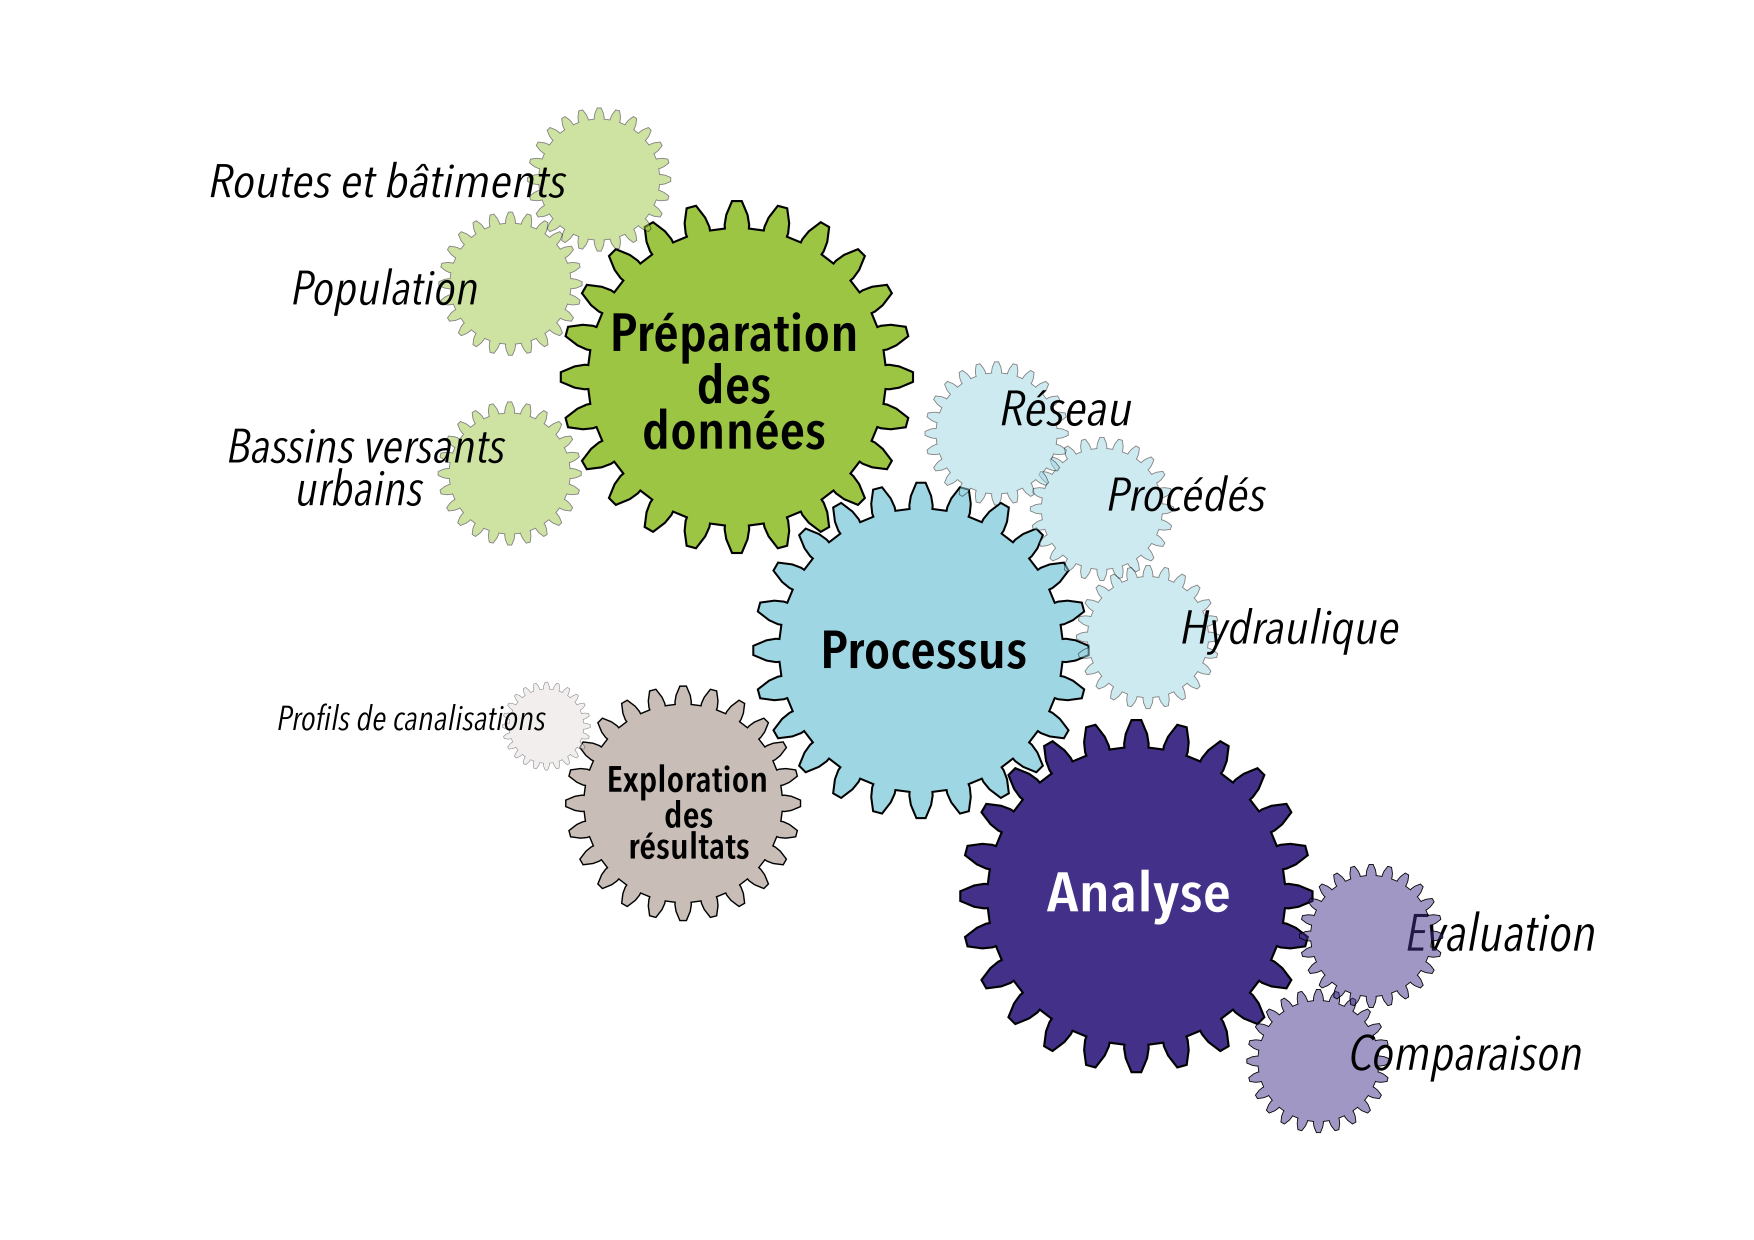
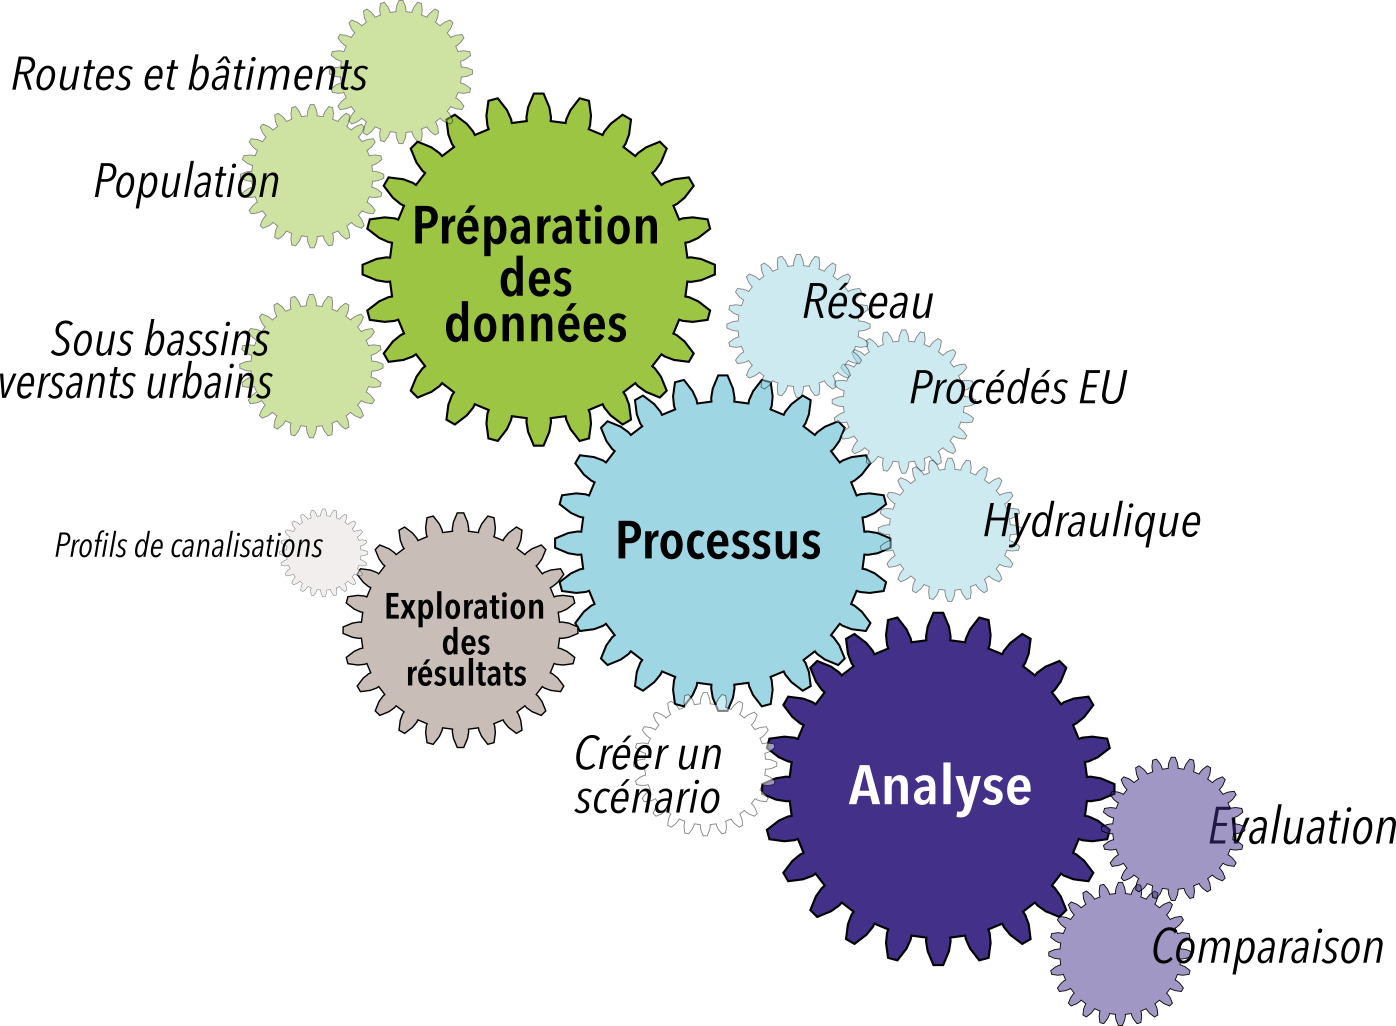
modifications de coquilles

Changed region(s): [[0.0, 0.0, 1.0, 1.0]]

diff --git a/docs/scenario_prb1.rst b/docs/scenario_prb1.rst
@@ -3,13 +3,15 @@
 Création d'un scénario pour la question du centralisé / décentralisé
 =====================================================================
 
-La création d'un scénario pour la question du centralisé / décentralisé implique trois temps :
+La création d'un scénario pour la question du centralisé / décentralisé implique quatre temps :
 
 **1. Tracer un réseau d'assainissement.**
 
 **2. Pré-dimensionner les filières de traitement pour les stations.**
 
-**3. Pré-sélectionner une filière pour chaque station et créer un objet scénario.**
+**3. Pré-sélectionner une filière pour chaque station**
+
+**4. Créer un objet scénario.**
 
 Pour une même zone, vous pouvez créer successivement autant de scénarios que vous le souhaitez.
 
@@ -34,7 +36,7 @@ Préalable
 .. attention::
    **Les 4 couches doivent être dans le même SCR (système de coordonnées de référence).**
 
-Si vous ne disposez pas de ces couches, vous pouvez vous rendre à la page :ref:`Obtention et préparation des données géographiques <preparation>`
+Si vous ne disposez pas de ces couches pour votre zone d'étude, vous pouvez vous rendre à la page :ref:`Obtention et préparation des données géographiques <preparation>`
 pour quelques astuces et explications.
 
 Utilisation du module
@@ -247,6 +249,8 @@ D'autres styles sont disponibles pour la couche ``Canalisations``. Pour y accéd
 
                 .. image:: _static/afficher_entites.png
                     :width: 162
+
+    Cette astuce peut être appliquée à n'importe quelle couche vecteur.
 
 **Style débit de pointe**
 
@@ -470,7 +474,7 @@ Pour plus d'informations sur la bonne prise en compte du climat tropical lors du
 
 **3.** Renseigner la couche STEU (bulle 2) et éventuellement la couche de surfaces disponibles (bulle 3).
 
-**4.** Assurer vous que les champs détectés pour les 10 attributs sont bien corrects : coordonnées GPS, niveaux de rejet et débit journalier (encart 4). 
+**4.** Assurez vous que les champs détectés pour les 10 attributs sont bien corrects : coordonnées GPS, niveaux de rejet et débit journalier (encart 4). 
 
 **5.** Pour le nombre d'étages maximum, nous vous conseillons de laisser la valeur 3 qui est la valeur par défaut.
 
@@ -531,7 +535,7 @@ Chaque entité possède de nombreux attributs :
     * **NT normalisé** [-] : valeur normalisée de la concentration en NT dans l'effluent par rapport au niveau de rejet exigé.
     * **NO3 normalisé** [-] : valeur normalisée de la concentration en NO3 dans l'effluent par rapport au niveau de rejet exigé.
     * **PT normalisé** [-] : valeur normalisée de la concentration en PT dans l'effluent par rapport au niveau de rejet exigé.
-    * **coliformes normalisé** [-] : valeur normalisée de la concentration en coliformes dans l'effluent par rapport au niveau de rejet exigé.
+    * **coliformes normalisés** [-] : valeur normalisée de la concentration en coliformes dans l'effluent par rapport au niveau de rejet exigé.
     * **surface normalisée** [-] : valeur normalisée de la surface totale de la filière par rapport à la surface disponible.
 
     Si la valeur normalisée est inférieure ou égale à 1, alors elle respecte la contrainte indiquée (niveau de rejet ou surface disponible). Sinon, elle l'excède.
@@ -601,7 +605,7 @@ Les niveaux de rejet à respecter dans le cas d'une station au Sud de la zone so
 
 **3. Utilisation du module** ``Procédés``
 
-* Cherche ``ELAN`` dans la Boîte à outils de traitements et sélectionner ``Procédés`` (bulles 1 et 2).
+* Cherche ``ELAN`` dans la *Boîte à outils de traitements* et sélectionner ``Procédés`` (bulles 1 et 2).
 
 * Choisir *Tropical* pour le climat (bulle 3).
 
@@ -612,7 +616,7 @@ Les niveaux de rejet à respecter dans le cas d'une station au Sud de la zone so
 
 * Vérifier que les champs identifiés pour les niveaux de rejets et le débit journalier sont corrects.
 
-* Indiquer un nom et un emplacement pour l'enregistrement du fichier de sortie (bulle 6), pusi exécuter (bulle 7).
+* Indiquer un nom et un emplacement pour l'enregistrement du fichier de sortie (bulle 6), puis exécuter (bulle 7).
 
 .. image:: _static/ex-procedes-suite.png
      :width: 600
@@ -635,7 +639,8 @@ Pour consulter les attributs de cette couche :
 .. image:: _static/attributs-procedes-ex.png
      :width: 700
 
-**5. Pré-sélection d'une filière de traitement**
+Étape 3 : Pré-sélectionner une filière par exutoire
+-----------------------------------------------------
 
 Ici, 6 filières permettent d'atteindre les niveaux de rejets imposés (déviations en vert) :
     
@@ -655,14 +660,12 @@ pourraient constituer deux filières de traitement intéressantes.
 Un premier scénario pourrait donc être : le réseau d'assainissement obtenu à l'étape 1 couplé à une filière VdNS1. Le couplage avec une filière 
 VdNSS pourrait constituer un second scénario.
 
-Cette étape de pré-sélection d'une filière de traitement correspond au troisième temps de la création d'un scénario.
-
 .. note::
    Des représentations graphiques (bar plot et radar plot) pour mieux visualiser les attributs des différentes filières retenues seront bientôt disponibles
    en sortie de module ``Procédés``. Il sera ainsi plus simple d'identifier leurs points forts et leurs points faibles respectifs.
 
-Étape 3 : Pré-sélectionner une filière et créer un objet scénario (module ``Créer un scénario``)
--------------------------------------------------------------------------------------------------
+Étape 4 : Créer un objet scénario (module ``Créer un scénario``)
+-----------------------------------------------------------------
 
 Le module ``Créer un scénario`` vous permet de créer un objet scénario contenant à la fois le pré-dimensionnement d'un réseau et celui des filières associées (1 par exutoire).
 
@@ -688,7 +691,7 @@ Utilisation du module
 **2.** Chercher ``ELAN`` dans la boîte à outils de traitements et sélectionner ``Créer un scénario``.
 
 .. image:: _static/start-scenario.png
-    :width: 300
+    :width: 250
 
 
 **3.** Nommer votre scénario (bulle 1), indiquer la couche ``Canalisations`` à considérer (bulle 2), renseigner la couche ``Couche de filières`` et 
@@ -724,7 +727,8 @@ Les niveaux de rejet pour l'emplacement au Nord de la zone sont moins contraigna
     * DCO : 125 mg/L
 
 .. important::
-    L'aspect itératif de la définition d'un scénario est brièvement mentionné mais n'est pas détaillé dans ce pas à pas. Il s'agit d'une pratique possible (voire recommandée).
+    L'aspect itératif de la définition d'un scénario est brièvement mentionné mais n'est pas détaillé dans ce pas à pas. Il s'agit d'une pratique possible (voire inévitable).
+    
     Par exemple : si vous jugez que certains bâtiments sont trop "coûteux" à raccorder (plus de 40 mètre linéaire pour un bâtiment), 
     vous pouvez éditer la couche bâtiment et supprimer ces bâtiments pour voir quel serait l'impact de leur maintien en assainissement 
     non collectif sur le pré-dimensionnement du réseau proposé. De même vous pouvez redéfinir les chemins empruntables en supprimant certains et/ou en en ajoutant d'autres.

diff --git a/docs/introduction.rst b/docs/introduction.rst
@@ -4,7 +4,7 @@ Introduction
 L'appellation ELAN a été choisie pour **"urban watEr pLanning scenArios for sustaiNable cities"**.
 Il s'agit d'un **outil d'aide à la décision pour une gestion intégrée des eaux urbaines (usées et pluviales) par des solutions fondées sur la nature**.
 ELAN s'inscrit dans un objectif global de transformer la ville de demain pour la rendre résiliente au changement global. 
-Le défi est donc territorial, d'où la pertinence du recours au système d'information géographique (SIG).
+Cette transformation constitue un véritable défi territorial, ce qui rend particulièrement pertinent le recours au système d'information géographique (SIG).
 
 Un outil, deux problématiques
 ---------------------------------
@@ -14,7 +14,7 @@ l'autre impliquant les eaux urbaines dans leur ensemble (**"question des dévers
 Pour la problématique du centralisé/décentralisé, la question qui se pose est : 
 **comment connecter une zone dépourvue de réseau d'assainissement (nouveau quartier, zone historiquement en assainissement non collectif) ?**
 
-Dans le cas de déversements d'un réseau unitaire en temps de pluie, l'utilisateur est confronté à la question :
+Dans le cas de déversements d'un réseau unitaire par temps de pluie, l'utilisateur est confronté à la question :
 **comment limiter les déversements d'eaux non traitées au niveau des déversoirs d'orage ?**
 
 Illustration par des exemples
@@ -58,7 +58,7 @@ Structure de l'outil
 ELAN est structuré en **plusieurs groupement de modules**. 
 
 .. image:: _static/elan_prb1+2.png
-    :width: 650
+    :width: 500
 
 * **Préparation des données** 
     * ``Routes et bâtiments`` qui permet **d'extraire les données** `Open Street Map <https://www.openstreetmap.org>`_ de la zone d'intérêt définie par l'utilisateur.
@@ -75,9 +75,14 @@ ELAN est structuré en **plusieurs groupement de modules**.
     * ``Hydraulique`` qui intervient dans **l'estimation des volumes produits** par les différents bassins versants urbains d'une zone.
 
 .. note::
+
     Le module ``Réseau`` est utilisé pour la question du centralisé/décentralisé. 
+
     Le module ``Hydraulique`` pour celle des déversements par temps de pluie.
+
     Le module ``Procédés`` peut être sollicité pour les deux problématiques.
+
+* ``Créer un scénario`` qui est à l'interface des modules de types *Processus* et *Analyse* et permet de créer des objets scénarios qui pourront ensuite être évalués et comparés.
 
 * **Exploration des résultats**
     * ``Profils de canalisations`` qui permet de **visualiser le profil souterrain des canalisations (vue longitudinale)**.
@@ -87,7 +92,7 @@ ELAN est structuré en **plusieurs groupement de modules**.
 
 * **Analyse**
     * ``Évaluation`` qui permet **d'évaluer un scénario sur plusieurs paramètres** (économique, technicité, robustesse).
-    * ``Comparaison`` pour **mener une analyse multicritère sur un ensemble de scénarios** et les comparer selon différents critères sur la base de poids définis par l'utilisateur.
+    * ``Comparaison`` pour **mener une analyse multicritère sur un ensemble de scénarios** et les comparer selon différents critères priorisés par l'utilisateur.
 
 .. _projets-recherche:
 

diff --git a/docs/preparation.rst b/docs/preparation.rst
@@ -112,7 +112,7 @@ Pour identifier la zone, afficher le fond de carte `Open Street Map <https://www
      Ici la grille associée aux dalles de MNT est disponible (dalles.shp dans 3_SUPPLEMENTS_LIVRAISON), chargez-la dans QGIS via le panneau *Explorateur* (bulle 1). Elle vous permettra une identification plus rapide des
      dalles concernées.
 
-     Il vous suffit en effet de sélectionner les dalles coïncidant avec votre zone (bulles 2 et 3) puis de faire ``Ouvrir la table attributaire (entités sélectionnées uniquement)`` (bulle 4) pour accéder direcement aux
+     Il vous suffit en effet de sélectionner les dalles coïncidant avec votre zone (bulles 2 et 3) puis de faire ``Ouvrir la table attributaire (entités sélectionnées uniquement)`` (bulle 4) pour accéder directement aux
      noms des dalles d'intérêt (attribut NOM DALLE).
 
           .. image:: _static/grille_mnt.png
@@ -225,7 +225,7 @@ Ici quatre dalles recouvrent la zone : RGEALTI_MTQ_0705_1600_MNT_WGS84UTM20_MART
 
 .. note:: 
      Vous pouvez également télécharger manuellement les données sur le site Géoservices de l'IGN `BD TOPO® <https://geoservices.ign.fr/bdtopo>`_, mais vous devrez vraisemblablement les
-     post-traiter pour les réduire à votre zone d'étude (données mises à disposition à l'échelle du Département).
+     post-traiter pour les réduire à votre zone d'étude (données mises à disposition à l'échelle du département).
 
 .. image:: _static/extensions.png
      :width: 317
